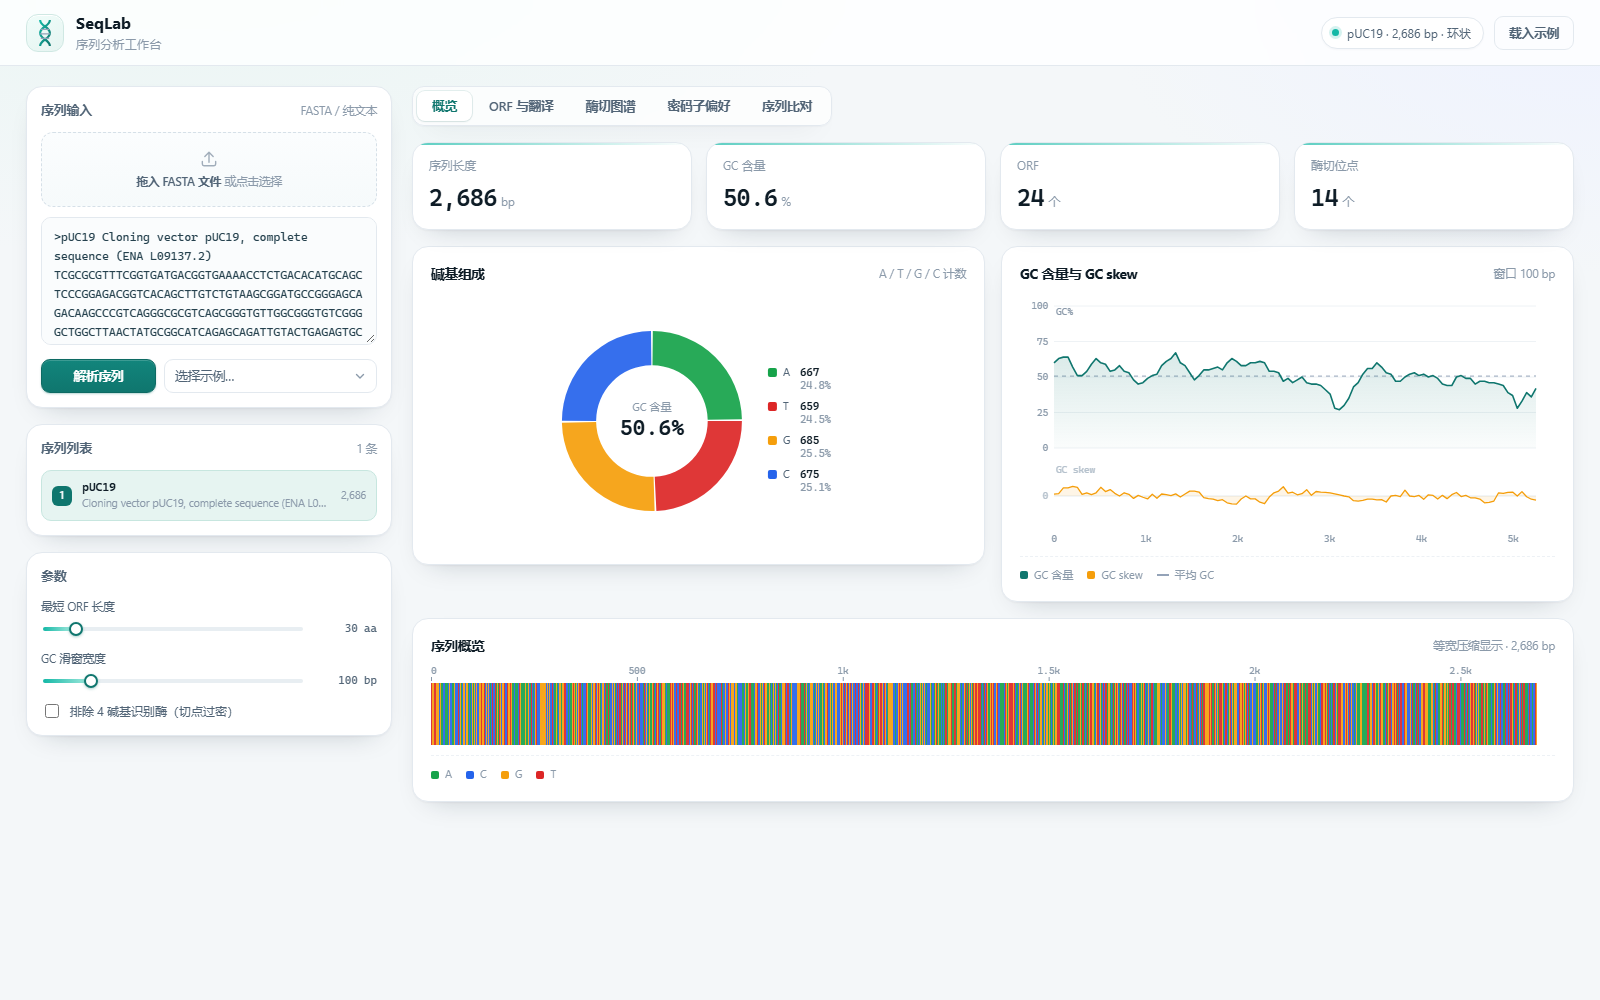
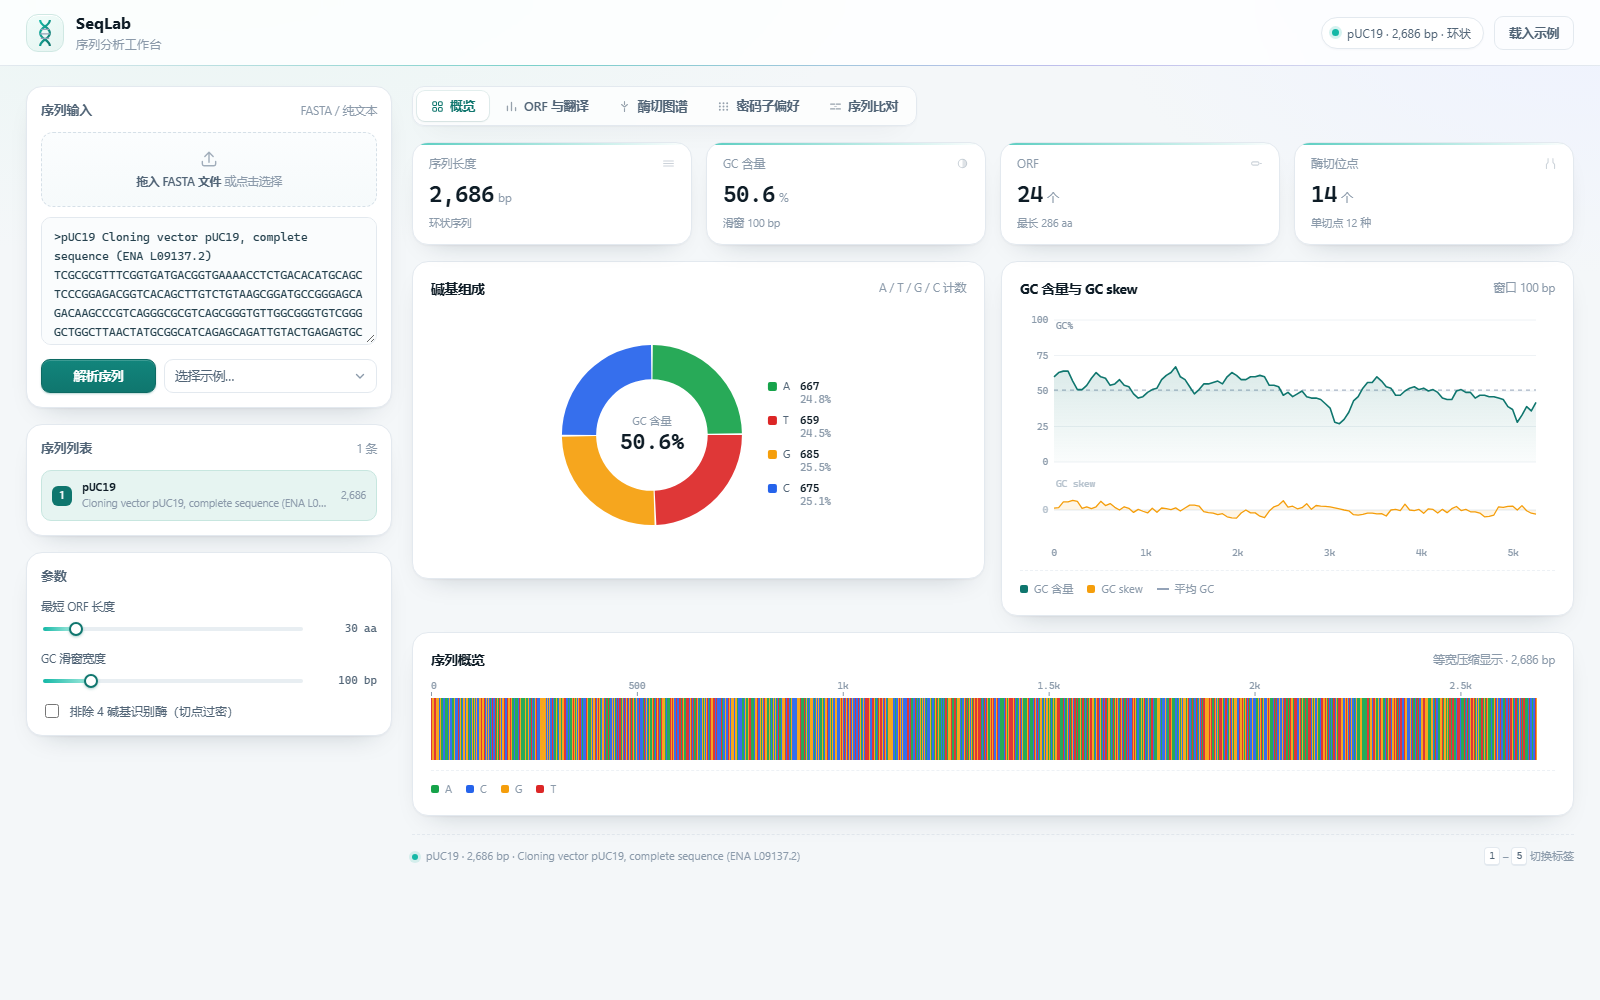
style: 界面细节优化
- 标签页增加线性图标，激活态高亮
- KPI 卡片补充图标与副标题（环状/线性、滑窗、最长 ORF、单切点酶数）
- 工作区底部增加状态条（数据来源 + 快捷键提示）
- 顶栏增加主色渐变细线，卡片 hover 微交互
- 同步更新 README 截图

diff --git a/index.html b/index.html
@@ -89,20 +89,51 @@
   <!-- ============ 工作区 ============ -->
   <section class="workspace">
     <nav class="tabs" role="tablist">
-      <button class="tab active" data-tab="overview" role="tab">概览</button>
-      <button class="tab" data-tab="orf" role="tab">ORF 与翻译</button>
-      <button class="tab" data-tab="enzyme" role="tab">酶切图谱</button>
-      <button class="tab" data-tab="codon" role="tab">密码子偏好</button>
-      <button class="tab" data-tab="align" role="tab">序列比对</button>
+      <button class="tab active" data-tab="overview" role="tab">
+        <svg class="tab-ico" viewBox="0 0 16 16"><rect x="2.2" y="2.2" width="4.6" height="4.6" rx="1.2" fill="none" stroke="currentColor" stroke-width="1.3"/><rect x="9.2" y="2.2" width="4.6" height="4.6" rx="1.2" fill="none" stroke="currentColor" stroke-width="1.3"/><rect x="2.2" y="9.2" width="4.6" height="4.6" rx="1.2" fill="none" stroke="currentColor" stroke-width="1.3"/><rect x="9.2" y="9.2" width="4.6" height="4.6" rx="1.2" fill="none" stroke="currentColor" stroke-width="1.3"/></svg>
+        概览
+      </button>
+      <button class="tab" data-tab="orf" role="tab">
+        <svg class="tab-ico" viewBox="0 0 16 16"><path d="M3 13V7.5M8 13V3M13 13V9.5" stroke="currentColor" stroke-width="1.6" stroke-linecap="round"/></svg>
+        ORF 与翻译
+      </button>
+      <button class="tab" data-tab="enzyme" role="tab">
+        <svg class="tab-ico" viewBox="0 0 16 16"><path d="M8 2v3.4M8 10.6V14M4.4 5.6 8 8.6l3.6-3" fill="none" stroke="currentColor" stroke-width="1.4" stroke-linecap="round" stroke-linejoin="round"/></svg>
+        酶切图谱
+      </button>
+      <button class="tab" data-tab="codon" role="tab">
+        <svg class="tab-ico" viewBox="0 0 16 16"><path d="M3.5 4h.01M8 4h.01M12.5 4h.01M3.5 8h.01M8 8h.01M12.5 8h.01M3.5 12h.01M8 12h.01M12.5 12h.01" stroke="currentColor" stroke-width="2.4" stroke-linecap="round"/></svg>
+        密码子偏好
+      </button>
+      <button class="tab" data-tab="align" role="tab">
+        <svg class="tab-ico" viewBox="0 0 16 16"><path d="M2 5h5M9 5h5M2 11h5M9 11h5" stroke="currentColor" stroke-width="1.5" stroke-linecap="round"/><path d="M7 8h2" stroke="currentColor" stroke-width="1.5" stroke-linecap="round" opacity=".55"/></svg>
+        序列比对
+      </button>
     </nav>
 
     <!-- 概览 -->
     <section class="pane active" data-pane="overview">
       <div class="kpis">
-        <div class="kpi"><span>序列长度</span><strong id="kLen">—</strong><em>bp</em></div>
-        <div class="kpi"><span>GC 含量</span><strong id="kGC">—</strong><em>%</em></div>
-        <div class="kpi"><span>ORF</span><strong id="kOrf">—</strong><em>个</em></div>
-        <div class="kpi"><span>酶切位点</span><strong id="kSite">—</strong><em>个</em></div>
+        <div class="kpi">
+          <div class="kpi-head"><span>序列长度</span><svg viewBox="0 0 16 16" class="kpi-ico"><path d="M2 8h12M2 5h12M2 11h12" stroke="currentColor" stroke-width="1.3" stroke-linecap="round" opacity=".55"/></svg></div>
+          <strong id="kLen">—</strong><em>bp</em>
+          <div class="kpi-sub" id="kLenSub">—</div>
+        </div>
+        <div class="kpi">
+          <div class="kpi-head"><span>GC 含量</span><svg viewBox="0 0 16 16" class="kpi-ico"><circle cx="8" cy="8" r="5.2" fill="none" stroke="currentColor" stroke-width="1.3" opacity=".55"/><path d="M8 2.8a5.2 5.2 0 0 1 0 10.4z" fill="currentColor" opacity=".35"/></svg></div>
+          <strong id="kGC">—</strong><em>%</em>
+          <div class="kpi-sub" id="kGCSub">—</div>
+        </div>
+        <div class="kpi">
+          <div class="kpi-head"><span>ORF</span><svg viewBox="0 0 16 16" class="kpi-ico"><rect x="2" y="6" width="9" height="4" rx="1.6" fill="none" stroke="currentColor" stroke-width="1.3" opacity=".55"/><path d="M12.5 8H14" stroke="currentColor" stroke-width="1.3" stroke-linecap="round" opacity=".55"/></svg></div>
+          <strong id="kOrf">—</strong><em>个</em>
+          <div class="kpi-sub" id="kOrfSub">—</div>
+        </div>
+        <div class="kpi">
+          <div class="kpi-head"><span>酶切位点</span><svg viewBox="0 0 16 16" class="kpi-ico"><path d="M5 2v4.5L3 9v5M11 2v4.5L13 9v5" stroke="currentColor" stroke-width="1.3" fill="none" stroke-linecap="round" opacity=".55"/></svg></div>
+          <strong id="kSite">—</strong><em>个</em>
+          <div class="kpi-sub" id="kSiteSub">—</div>
+        </div>
       </div>
 
       <div class="grid-2">
@@ -276,6 +307,13 @@
         </div>
       </div>
     </section>
+
+    <div class="ws-foot">
+      <span class="ws-dot"></span>
+      <span id="footMeta">—</span>
+      <span class="grow"></span>
+      <span class="kbd-hint"><kbd>1</kbd>–<kbd>5</kbd> 切换标签</span>
+    </div>
   </section>
 </main>
 

diff --git a/styles.css b/styles.css
@@ -231,10 +231,14 @@ input[type="range"]::-moz-range-thumb {
   align-self: flex-start; backdrop-filter: blur(8px);
 }
 .tab {
-  position: relative; padding: 7px 15px; border: 0; border-radius: 8px;
+  position: relative; display: inline-flex; align-items: center; gap: 6px;
+  padding: 7px 14px; border: 0; border-radius: 8px;
   background: transparent; color: var(--ink-2); font-size: 12.5px; font-weight: 550;
   cursor: pointer; transition: color .15s, background .15s;
 }
+.tab-ico { width: 13px; height: 13px; opacity: .6; transition: opacity .15s; flex: none; }
+.tab:hover .tab-ico { opacity: .85; }
+.tab.active .tab-ico { opacity: 1; color: var(--accent); }
 .tab:hover { color: var(--ink); background: #f2f6f8; }
 .tab.active {
   color: var(--accent); background: var(--surface);
@@ -250,16 +254,21 @@ input[type="range"]::-moz-range-thumb {
 .kpi {
   position: relative; overflow: hidden;
   background: var(--surface); border: 1px solid var(--line); border-radius: var(--radius);
-  padding: 14px 16px 13px; box-shadow: var(--shadow);
+  padding: 12px 16px 12px; box-shadow: var(--shadow);
+  transition: box-shadow .22s ease, border-color .22s ease;
 }
+.kpi:hover { border-color: #d8e2ea; box-shadow: 0 2px 4px rgba(15, 32, 48, .05), 0 18px 34px -22px rgba(15, 32, 48, .4); }
 .kpi::after {
   content: ""; position: absolute; inset: 0 0 auto 0; height: 2px;
   background: linear-gradient(90deg, var(--accent-2), rgba(20, 184, 166, 0));
   opacity: .7;
 }
-.kpi span { display: block; font-size: 11.5px; color: var(--ink-3); margin-bottom: 6px; letter-spacing: .02em; }
+.kpi-head { display: flex; align-items: center; justify-content: space-between; margin-bottom: 5px; }
+.kpi-head span { font-size: 11.5px; color: var(--ink-3); letter-spacing: .02em; }
+.kpi-ico { width: 13px; height: 13px; color: var(--ink-3); opacity: .8; }
+.kpi-sub { margin-top: 4px; font-size: 10.5px; color: var(--ink-3); letter-spacing: .01em; white-space: nowrap; overflow: hidden; text-overflow: ellipsis; }
 .kpi strong {
-  font-family: var(--mono); font-size: 24px; font-weight: 600; letter-spacing: -.02em;
+  font-family: var(--mono); font-size: 23px; font-weight: 600; letter-spacing: -.02em;
   color: var(--ink); font-variant-numeric: tabular-nums;
 }
 .kpi em { font-style: normal; font-size: 11.5px; color: var(--ink-3); margin-left: 4px; }
@@ -489,6 +498,31 @@ input[type="range"]::-moz-range-thumb {
   transition: opacity .18s ease, transform .18s ease;
 }
 .toast.show { opacity: 1; transform: translate(-50%, 0); }
+
+/* ---------- 顶栏主色细线 ---------- */
+.topbar::after {
+  content: ""; position: absolute; left: 0; right: 0; bottom: -1px; height: 1px;
+  background: linear-gradient(90deg, transparent, rgba(20, 184, 166, .5), rgba(109, 92, 231, .3), transparent);
+  pointer-events: none;
+}
+
+/* ---------- 工作区底栏 ---------- */
+.ws-foot {
+  display: flex; align-items: center; gap: 8px;
+  margin-top: 2px; padding-top: 12px;
+  border-top: 1px dashed var(--line);
+  font-size: 11px; color: var(--ink-3);
+}
+.ws-dot {
+  width: 6px; height: 6px; border-radius: 50%; flex: none;
+  background: var(--accent-2); box-shadow: 0 0 0 3px rgba(20, 184, 166, .14);
+}
+.kbd-hint { display: inline-flex; align-items: center; gap: 3px; white-space: nowrap; }
+kbd {
+  display: inline-block; min-width: 15px; padding: 1px 4px; text-align: center;
+  border-radius: 4px; border: 1px solid var(--line); border-bottom-width: 2px;
+  background: #fff; font-family: var(--mono); font-size: 9.5px; color: var(--ink-2);
+}
 
 /* ---------- 滚动条 ---------- */
 ::-webkit-scrollbar { width: 9px; height: 9px; }

diff --git a/app.js b/app.js
@@ -1242,6 +1242,18 @@ function refreshAll() {
   $('#kOrf').textContent = fmt(state.orfs.length);
   $('#kSite').textContent = fmt(state.sites.length);
 
+  // 卡片副标题与底栏
+  $('#kLenSub').textContent = state.topology === 'circular' ? '环状序列' : '线性序列';
+  $('#kGCSub').textContent = `滑窗 ${$('#gcWin').value} bp`;
+  let longest = 0;
+  for (const o of state.orfs) if (o.aa > longest) longest = o.aa;
+  $('#kOrfSub').textContent = longest ? `最长 ${fmt(longest)} aa` : '未检出';
+  const counts = {};
+  for (const s of state.sites) counts[s.enz.n] = (counts[s.enz.n] || 0) + 1;
+  const uniqEnz = Object.keys(counts).filter((k) => counts[k] === 1).length;
+  $('#kSiteSub').textContent = uniqEnz ? `单切点 ${uniqEnz} 种` : `${Object.keys(counts).length} 种酶`;
+  $('#footMeta').textContent = `${rec.name} · ${fmt(st.len)} bp · ${rec.desc || '本地序列'}`;
+
   const picker = $('#orfPicker');
   const options = state.orfs.slice(0, 40);
   picker.innerHTML = options.length
